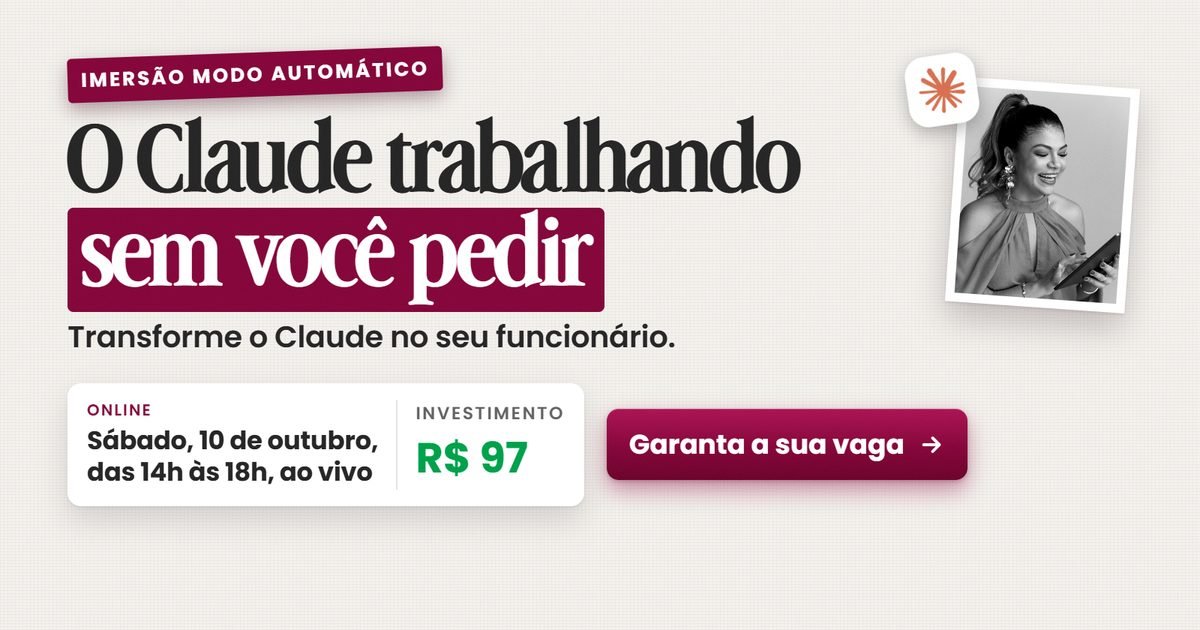
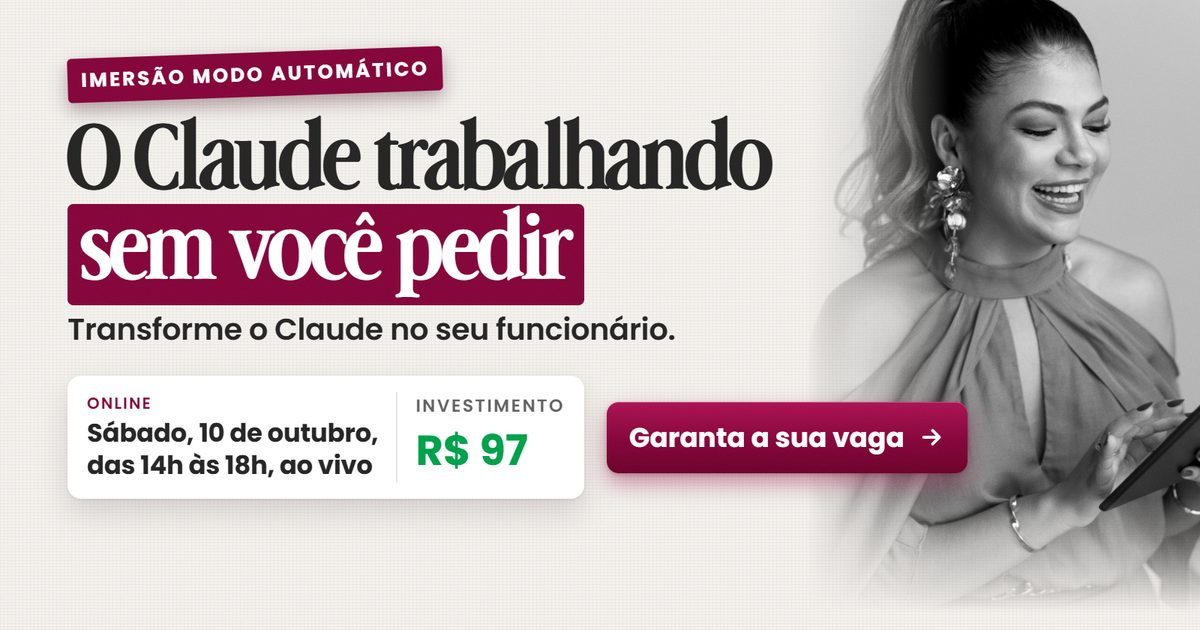
Imersão: foto integrada no topo com degradê

diff --git a/imersao/index.html b/imersao/index.html
@@ -59,13 +59,13 @@ h2{font-family:Advercase,Georgia,serif;font-weight:700;font-size:clamp(1.75rem,7
 footer{display:flex;align-items:center;justify-content:space-between;gap:1rem;padding:2rem 1.25rem 2.6rem}
 footer a{color:var(--mag);font-weight:700;text-decoration:none}
 footer img{width:76px;height:auto;transform:rotate(-14deg)}
-.topo{padding-top:2.2rem;padding-bottom:.4rem}
+.topo{position:relative;overflow:hidden;padding-top:1.4rem;padding-bottom:.4rem}
+.topo>*{position:relative;z-index:1}
+.topo .fundo-img{position:absolute;z-index:0;top:0;right:0;width:68%;height:auto;max-height:340px;object-fit:cover;object-position:50% 0;filter:blur(1.2px);transform:scale(1.02);
+ -webkit-mask-image:linear-gradient(to right,transparent 0,#000 38%),linear-gradient(to bottom,#000 45%,transparent 92%);mask-image:linear-gradient(to right,transparent 0,#000 38%),linear-gradient(to bottom,#000 45%,transparent 92%);-webkit-mask-composite:source-in;mask-composite:intersect}
+.topo .veu{position:absolute;z-index:0;inset:0;background:linear-gradient(90deg,rgba(244,242,238,.55),rgba(244,242,238,0) 60%)}
 .etq2{display:inline-block;background:var(--mag);color:#fff;font-weight:700;font-size:.74rem;letter-spacing:.12em;padding:.38rem .75rem;border-radius:5px;transform:rotate(-2deg);box-shadow:0 8px 18px rgba(60,10,30,.25)}
-.retrato{float:right;position:relative;width:96px;margin:.9rem 0 .4rem 14px;background:#fff;padding:5px;transform:rotate(4deg);box-shadow:0 2px 4px rgba(40,20,25,.1),0 12px 26px rgba(40,20,25,.2)}
-.retrato img{display:block;width:100%;height:auto}
-.retrato .stk{left:auto;right:-4px;top:-16px;bottom:auto;width:40px;height:40px;border-radius:12px}
-.retrato .stk svg{width:26px;height:26px}
-.topo h1{font-size:clamp(2.35rem,10.6vw,3.2rem);margin:1.3rem 0 .8rem}
+.topo h1{font-size:clamp(2.35rem,10.6vw,3.2rem);margin:9.2rem 0 .8rem}
 .resumo{clear:both;display:flex;align-items:center;gap:1rem;background:#fff;border-radius:14px;padding:.9rem 1.1rem;margin:0 0 1.3rem;box-shadow:0 1px 2px rgba(40,20,25,.06),0 10px 26px rgba(40,20,25,.1)}
 .rq{flex:1;line-height:1.35}.rq strong{font-size:1rem}
 .resumo small{display:block;font-size:.68rem;letter-spacing:.12em;font-weight:600;color:var(--mag);margin-bottom:.15rem}
@@ -77,11 +77,9 @@ footer img{width:76px;height:auto;transform:rotate(-14deg)}
 <body>
 <main class="pag">
   <header class="bloco topo">
+    <img class="fundo-img" src="../img/imersao-dani.webp" width="600" height="821" alt="Dani Lemos sorrindo enquanto trabalha no tablet" fetchpriority="high">
     <span class="etq2">IMERSÃO MODO AUTOMÁTICO</span>
-    <figure class="retrato">
-      <img src="../img/imersao-dani.webp" width="400" height="502" alt="Dani Lemos sorrindo enquanto trabalha no tablet" fetchpriority="high">
-      <span class="stk" aria-hidden="true"><svg width="46" height="46" viewBox="0 0 24 24"><path d="m4.7144 15.9555 4.7174-2.6471.079-.2307-.079-.1275h-.2307l-.7893-.0486-2.6956-.0729-2.3375-.0971-2.2646-.1214-.5707-.1215-.5343-.7042.0546-.3522.4797-.3218.686.0608 1.5179.1032 2.2767.1578 1.6514.0972 2.4468.255h.3886l.0546-.1579-.1336-.0971-.1032-.0972L6.973 9.8356l-2.55-1.6879-1.3356-.9714-.7225-.4918-.3643-.4614-.1578-1.0078.6557-.7225.8803.0607.2246.0607.8925.686 1.9064 1.4754 2.4893 1.8336.3643.3035.1457-.1032.0182-.0728-.164-.2733-1.3539-2.4467-1.445-2.4893-.6435-1.032-.17-.6194c-.0607-.255-.1032-.4674-.1032-.7285L6.287.1335 6.6997 0l.9957.1336.419.3642.6192 1.4147 1.0018 2.2282 1.5543 3.0296.4553.8985.2429.8318.091.255h.1579v-.1457l.1275-1.706.2368-2.0947.2307-2.6957.0789-.7589.3764-.9107.7468-.4918.5828.2793.4797.686-.0668.4433-.2853 1.8517-.5586 2.9021-.3643 1.9429h.2125l.2429-.2429.9835-1.3053 1.6514-2.0643.7286-.8196.85-.9046.5464-.4311h1.0321l.759 1.1293-.34 1.1657-1.0625 1.3478-.8804 1.1414-1.2628 1.7-.7893 1.36.0729.1093.1882-.0183 2.8535-.607 1.5421-.2794 1.8396-.3157.8318.3886.091.3946-.3278.8075-1.967.4857-2.3072.4614-3.4364.8136-.0425.0304.0486.0607 1.5482.1457.6618.0364h1.621l3.0175.2247.7892.522.4736.6376-.079.4857-1.2142.6193-1.6393-.3886-3.825-.9107-1.3113-.3279h-.1822v.1093l1.0929 1.0686 2.0035 1.8092 2.5075 2.3314.1275.5768-.3218.4554-.34-.0486-2.2039-1.6575-.85-.7468-1.9246-1.621h-.1275v.17l.4432.6496 2.3436 3.5214.1214 1.0807-.17.3521-.6071.2125-.6679-.1214-1.3721-1.9246L14.38 17.959l-1.1414-1.9428-.1397.079-.674 7.2552-.3156.3703-.7286.2793-.6071-.4614-.3218-.7468.3218-1.4753.3886-1.9246.3157-1.53.2853-1.9004.17-.6314-.0121-.0425-.1397.0182-1.4328 1.9672-2.1796 2.9446-1.7243 1.8456-.4128.164-.7164-.3704.0667-.6618.4008-.5889 2.386-3.0357 1.4389-1.882.929-1.0868-.0062-.1579h-.0546l-6.3385 4.1164-1.1293.1457-.4857-.4554.0608-.7467.2307-.2429 1.9064-1.3114Z" fill="#D97757"/></svg></span>
-    </figure>
+    <div class="veu" aria-hidden="true"></div>
     <h1>O Claude trabalhando <mark>sem você pedir</mark></h1>
     <p class="sub">Imersão ao vivo para transformar o Claude no seu funcionário.</p>
     <div class="resumo">
